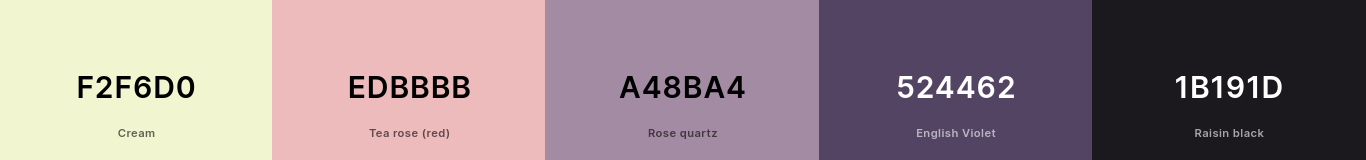
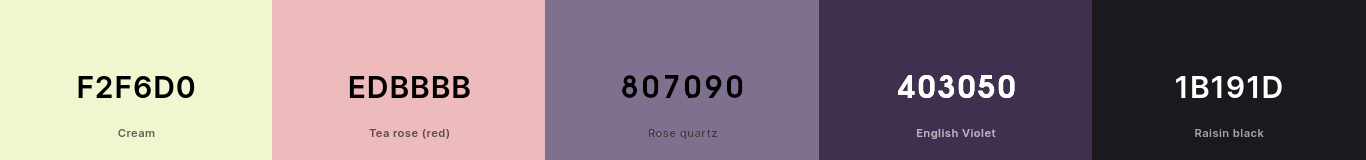
Improve general styling

Changed region(s): [[0.3997, 0.0, 0.6149, 1.0], [0.6457, 0.4688, 0.7687, 0.625]]

diff --git a/board/templates/board/post_detail.html b/board/templates/board/post_detail.html
@@ -9,16 +9,16 @@
             <!-- Avatar -->
             <a href="{% url 'profile' post.author.username %}" class="author text-white">
                 <img src="{{ post.author.profile.avatar.url }}" alt="{{ post.author }}'s avatar."
-                    class="avatar text-fade mx-3" width="64">
+                    class="avatar text-fade mx-2" width="64">
             </a>
             <!-- Title, author, time of post -->
             <div class="mx-3">
                 <h2 class="post-title text-white my-0">{{ post.title }}</h2>
-                <p class="post-subtitle text-white  my-0">
-                    <a href="{% url 'profile' post.author.username %}" class="link text-white font-weight-bold">
+                <p class="post-subtitle text-fade  my-0">
+                    <a href="{% url 'profile' post.author.username %}" class="link font-weight-bold h5">
                         {{ post.author }}
                     </a>
-                    | {{ post.posted_on }}
+                    <small>| {{ post.posted_on }}</small>
                 </p>
             </div>
         </div>
@@ -26,17 +26,16 @@
     <!-- Post content -->
     <div class="row">
         <div class="col left top bg-dark">
-            <div class="card-body text-white p-0 mb-1">
-                <p style="margin-bottom:0">
-                    {{ post.body | safe }}
-                </p>
+            <div class="post-body text-white p-0 mb-0">
+                {{ post.body | safe }}
+                <br>
                 {% if post.posted_on != post.updated_on %}
                 <small>Updated on {{ post.updated_on }}</small>
                 {% endif %}
-
             </div>
         </div>
     </div>
+    <hr>
     <div class="d-flex flex-row gap-1">
         <!-- Likes and Comments -->
         <button class="like-btn" data-post-id="{{ post.id }}" data-content-type="post">
@@ -92,16 +91,16 @@
         <div class="col mb-4 p-0 mx-auto">
             <!-- Iterate through each comment in comments -->
             {% for comment in comments %}
-            <div class="container card px-0 py-1  mb-1 {% if comment.is_sticky %}sticky{% else %} bg-dark {% endif %}">
+            <div class="container card py-1 px-3 mb-1 bg-dark {% if comment.is_sticky %}sticky{% endif %}">
                 <div class="row mb-1">
-                    <div class="col-3 col-sm-2 col-lg-1 pt-2">
-                        <!-- Avatar -->
+                    <!-- Avatar -->
+                    <div class="col-3 col-sm-2 col-lg-1 pt-2 px-2">
                         <a href="{% url 'profile' comment.author.username %}" class="author text-white">
                             <img src="{{ comment.author.profile.avatar.url }}" alt="{{ comment.author }}'s avatar."
-                                class="avatar text-fade mx-3" width="64">
+                                class="avatar text-fade mx-1" width="64">
                         </a>
                     </div>
-                    <div class="col-9 col-sm-10 col-lg-11 px-3">
+                    <div class="col-9 col-sm-10 col-lg-11 px-3 px-lg-5">
                         <!-- Comment info (author, time of post) -->
                         <p class="text-fade small mb-0">
                             <a href="{% url 'profile' comment.author.username %}"
@@ -121,6 +120,7 @@
                         </div>
                     </div>
                 </div>
+                <hr>
                 <div class="d-flex flex-row gap-1 px-3 pb-1">
                     <!-- Likes -->
                     <strong class="text-fade">

diff --git a/static/css/style.css b/static/css/style.css
@@ -3,16 +3,29 @@
 :root {
     --clr-white: #F2F6D0;
     --clr-black: #1B191D;
-    --clr-shade: #524462;
-    --clr-light: #A48BA4;
+    --clr-shade: #403050;
+    --clr-light: #807090;
     --clr-fade: #EDBBBB;
 }
 
 /*---------------------------------------- General styling */
 
+p {
+    font-size: 0.9rem !important;
+}
+
 a {
     text-decoration: none;
-    color: var(--clr-fade);
+    color: var(--clr-light);
+}
+
+hr {
+    color: var(--clr-light);
+    margin: 4px;
+}
+
+h2 {
+    font-size: 1.3rem;
 }
 
 a:hover,
@@ -20,9 +33,26 @@ a:focus {
     color: var(--clr-white);
 }
 
-h2 {
-    font-size: 1.3rem;
+.navbar-brand:hover,
+.navbar-brand:focus {
+    color: var(--clr-light) !important;
 }
+
+.nav-link {
+    color: var(--clr-fade) !important;
+}
+
+.nav-link:hover {
+    color: var(--clr-light) !important;
+}
+
+.signup label,
+.signup li,
+.login label {
+    color: var(--clr-fade);
+}
+
+/*-------------------------------------------- Post styling */
 
 .board-post {
     border-radius: 12px 0 0 0;
@@ -35,8 +65,8 @@ h2 {
 }
 
 .avatar {
-    width: 50px;
-    height: 50px;
+    width: 55px;
+    height: 55px;
     border: 2px solid var(--clr-fade);
     border-radius: 8px;
 }
@@ -66,32 +96,6 @@ h2 {
     background-color: transparent;
 }
 
-.signup label,
-.signup li,
-.login label {
-    color: var(--clr-fade);
-}
-
-#about {
-    background-color: var(--clr-black);
-    padding: 10px;
-}
-
-#edit-about {
-    display: none;
-}
-
-#edit-about textarea {
-    width: 100%;
-    background-color: #1B191D;
-    color: var(--clr-white);
-    padding: 10px;
-}
-
-#edit-about label {
-    display: none;
-}
-
 /* Styling for crispy form */
 #div_id_title label,
 #div_id_body label {
@@ -114,6 +118,28 @@ h2 {
     display: block;
 }
 
+/*---------------------------------------- Profile styling */
+
+#about {
+    background-color: var(--clr-black);
+    padding: 10px;
+}
+
+#edit-about {
+    display: none;
+}
+
+#edit-about textarea {
+    width: 100%;
+    background-color: #1B191D;
+    color: var(--clr-white);
+    padding: 10px;
+}
+
+#edit-about label {
+    display: none;
+}
+
 /*---------------------------------------- Buttons and such */
 
 
@@ -132,7 +158,7 @@ h2 {
 }
 
 .btn-primary:hover,
-.bt-primary:focus,
+.btn-primary:focus,
 .page-link:hover,
 .page-link:focus {
     background-color: var(--clr-light);
@@ -209,8 +235,13 @@ h2 {
 /*----------------------------------------- Utility classes */
 
 
+.bg-dark {
+    background-color: var(--clr-black) !important;
+
+}
+
 .bg-shade {
-    background-color: var(--clr-shade);
+    background-color: var(--clr-shade) !important;
 }
 
 .text-white {
@@ -229,9 +260,15 @@ h2 {
 
 
 /* Small devices (landscape phones, 576px and up) */
-@media srreen and (min-width: 576px) {
+@media (min-width: 576px) {
     .avatar {
-        width: 100px;
-        height: 100px;
+        width: 75px;
+        height: 75px;
     }
+
+    p {
+        font-size: 1rem !important;
+    }
+
+    
 }
